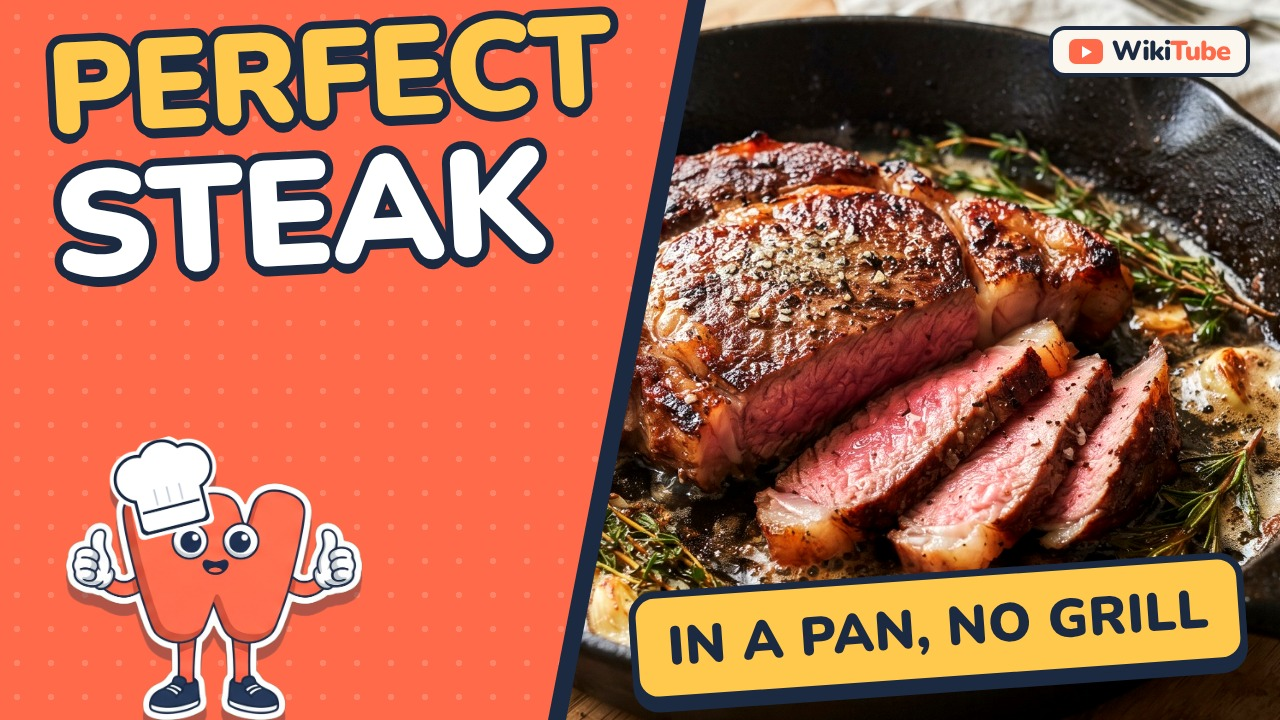
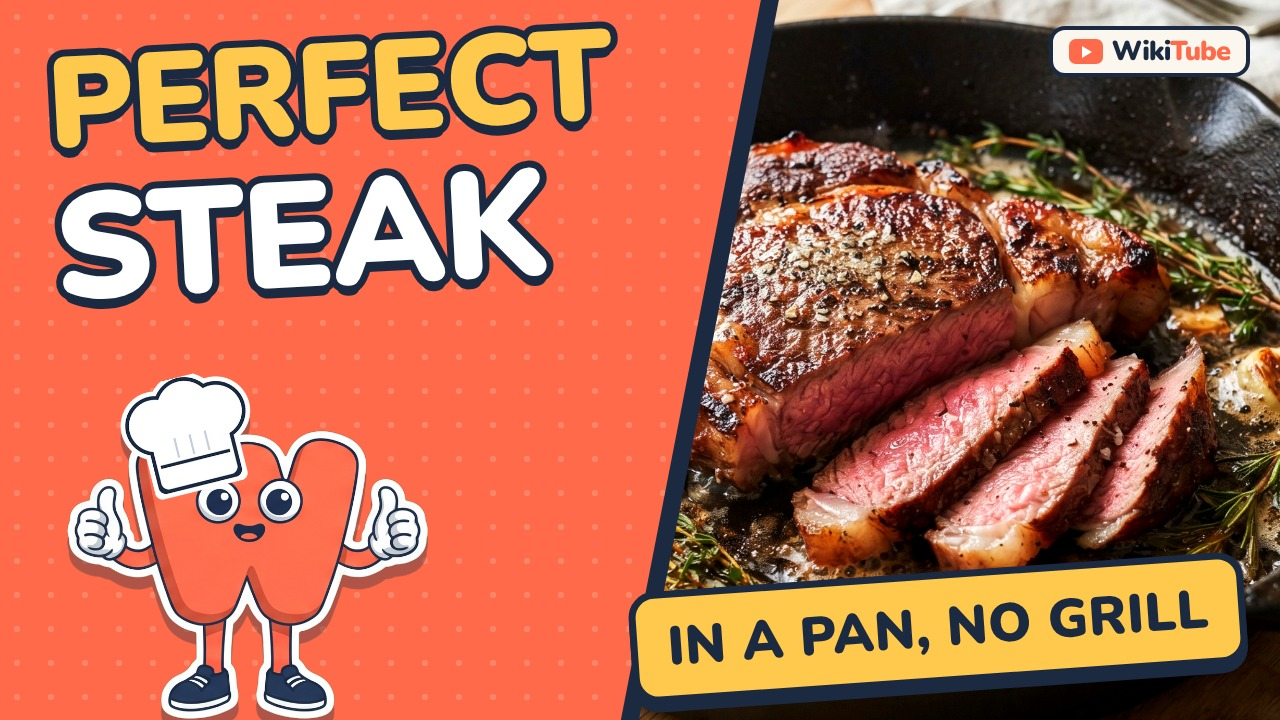
fix(mise en page): sonde automatique des textes coupés ou superposés, colonne d'introduction auto-ajustée, garde-fous des étiquettes et des légendes, miniatures à mise en page calculée ; miniatures des 3 vidéos programmées remplacées
Claude-Session: https://claude.ai/code/session_011qSUCMSTaizdJrV53fKGTy

diff --git a/src/ThumbPro.tsx b/src/ThumbPro.tsx
@@ -2,6 +2,7 @@ import React from "react";
 import { AbsoluteFill, Img, staticFile } from "remotion";
 import { C, FONT } from "./theme";
 import { Logo } from "./components/ui";
+import { OverflowProbe } from "./components/probe";
 
 export type ThumbProProps = {
   photo: string;
@@ -12,39 +13,69 @@ export type ThumbProProps = {
   badge: string;
   mascot: string; // pose : panic, chef, nose…
   mascotH?: number;
+  probe?: boolean;
 };
 
 const stroke = (w: number): React.CSSProperties => ({ WebkitTextStroke: `${w}px ${C.ink}`, paintOrder: "stroke fill" });
 
 /** Miniature « clic » 1280×720 : photo vive à droite, panneau corail en biais, 2-3 mots géants, mascotte, pastille promesse. */
-export const ThumbPro: React.FC<ThumbProProps> = ({ photo, flip, position = "50% 50%", zoom = 1.06, lines, badge, mascot, mascotH = 330 }) => (
+export const ThumbPro: React.FC<ThumbProProps> = ({ photo, flip, position = "50% 50%", zoom = 1.06, lines, badge, mascot, mascotH, probe }) => {
+  // Mise en page calculée : chaque ligne tient dans le panneau en biais, la mascotte remplit l'espace restant,
+  // la pastille ne passe jamais sous la mascotte. Aucun texte ne déborde, aucune zone ne reste vide.
+  const LH = 1.04; // interligne : les contours épais ne se touchent pas
+  const TOP = 40;
+  // Le panneau s'élargit si un mot long le demande (jusqu'à 820 px en haut), la photo garde au moins la moitié droite.
+  let yy = TOP;
+  let need = 688;
+  for (const l of lines) {
+    const size = l.size ?? 128;
+    yy += size * LH;
+    need = Math.max(need, 44 + 56 + l.text.length * 0.7 * size + (140 * yy) / 720);
+  }
+  const panelTop = Math.min(820, need);
+  const edgeAt = (y: number) => panelTop - (140 * y) / 720; // bord droit du panneau corail à la hauteur y
+  let y = TOP;
+  const fitted = lines.map((l) => {
+    let size = l.size ?? 128;
+    for (let i = 0; i < 6; i++) size = Math.min(size, (edgeAt(y + size * LH) - 44 - 56) / (l.text.length * 0.7));
+    y += size * LH;
+    return { ...l, size: Math.floor(size) };
+  });
+  const textBottom = y;
+  const mH = Math.round(Math.min(mascotH ?? 420, 720 - textBottom - 26, 420));
+  const mascotRight = 60 + mH * 0.86;
+  const badgeRoom = 1280 - 34 - mascotRight - 36;
+  const badgeSize = Math.floor(Math.min(54, badgeRoom / (badge.length * 0.62 + 1.4)));
+  return (
   <AbsoluteFill style={{ background: C.ink, fontFamily: FONT, overflow: "hidden" }}>
-    <div style={{ position: "absolute", left: 430, top: 0, right: 0, bottom: 0, overflow: "hidden" }}>
+    <div style={{ position: "absolute", left: panelTop - 258, top: 0, right: 0, bottom: 0, overflow: "hidden" }}>
       <Img
         src={staticFile(photo)}
         style={{ width: "100%", height: "100%", objectFit: "cover", objectPosition: position, transform: `scale(${flip ? -zoom : zoom}, ${zoom})`, filter: "saturate(1.18) contrast(1.06) brightness(1.03)" }}
       />
     </div>
     {/* panneau en biais + liseré */}
-    <div style={{ position: "absolute", inset: 0, background: C.ink, clipPath: "polygon(0 0, 706px 0, 566px 100%, 0 100%)" }} />
-    <div style={{ position: "absolute", inset: 0, background: C.coral, clipPath: "polygon(0 0, 688px 0, 548px 100%, 0 100%)" }} />
-    <div style={{ position: "absolute", inset: 0, clipPath: "polygon(0 0, 688px 0, 548px 100%, 0 100%)", backgroundImage: "radial-gradient(rgba(255,255,255,0.16) 3px, transparent 3.5px)", backgroundSize: "34px 34px" }} />
+    <div style={{ position: "absolute", inset: 0, background: C.ink, clipPath: `polygon(0 0, ${panelTop + 18}px 0, ${panelTop - 122}px 100%, 0 100%)` }} />
+    <div style={{ position: "absolute", inset: 0, background: C.coral, clipPath: `polygon(0 0, ${panelTop}px 0, ${panelTop - 140}px 100%, 0 100%)` }} />
+    <div style={{ position: "absolute", inset: 0, clipPath: `polygon(0 0, ${panelTop}px 0, ${panelTop - 140}px 100%, 0 100%)`, backgroundImage: "radial-gradient(rgba(255,255,255,0.16) 3px, transparent 3.5px)", backgroundSize: "34px 34px" }} />
     {/* mots géants */}
-    <div style={{ position: "absolute", left: 44, top: 30, transform: "rotate(-3deg)", transformOrigin: "left top" }}>
-      {lines.map((l, i) => (
-        <div key={i} style={{ fontSize: l.size ?? 128, fontWeight: 900, lineHeight: 0.98, letterSpacing: -2, color: l.hi ? C.sun : C.white, ...stroke(16), textShadow: `0 10px 0 ${C.ink}`, whiteSpace: "nowrap" }}>
+    <div style={{ position: "absolute", left: 44, top: TOP, transform: "rotate(-3deg)", transformOrigin: "left top" }}>
+      {fitted.map((l, i) => (
+        <div key={i} style={{ fontSize: l.size, fontWeight: 900, lineHeight: LH, letterSpacing: -2, color: l.hi ? C.sun : C.white, ...stroke(14), textShadow: `0 10px 0 ${C.ink}`, whiteSpace: "nowrap" }}>
           {l.text}
         </div>
       ))}
     </div>
     {/* mascotte */}
-    <Img src={staticFile(`brand/mascot-${mascot}.png`)} style={{ position: "absolute", left: 60, bottom: -6, height: mascotH, filter: "drop-shadow(0 12px 0 rgba(27,42,65,0.35))" }} />
+    <Img src={staticFile(`brand/mascot-${mascot}.png`)} style={{ position: "absolute", left: 60, bottom: -6, height: mH, filter: "drop-shadow(0 12px 0 rgba(27,42,65,0.35))" }} />
     {/* pastille promesse */}
-    <div style={{ position: "absolute", right: 34, bottom: 36, transform: "rotate(-4deg)", background: C.sun, color: C.ink, border: `7px solid ${C.ink}`, borderRadius: 26, padding: "12px 30px", fontSize: 54, fontWeight: 900, letterSpacing: 0.5, boxShadow: `0 9px 0 ${C.ink}`, whiteSpace: "nowrap" }}>
+    <div style={{ position: "absolute", right: 34, bottom: 36, transform: "rotate(-4deg)", background: C.sun, color: C.ink, border: `7px solid ${C.ink}`, borderRadius: 26, padding: "12px 30px", fontSize: badgeSize, fontWeight: 900, letterSpacing: 0.5, boxShadow: `0 9px 0 ${C.ink}`, whiteSpace: "nowrap" }}>
       {badge}
     </div>
     <div style={{ position: "absolute", top: 26, right: 30, background: C.paper, padding: "8px 16px", borderRadius: 16, border: `4px solid ${C.ink}` }}>
       <Logo size={34} />
     </div>
+    {probe && <OverflowProbe />}
   </AbsoluteFill>
 );
+};

diff --git a/src/components/stage.tsx b/src/components/stage.tsx
@@ -6,6 +6,13 @@ import { HAND, Mascot, WMark, type Pose } from "./brand";
 import type { Diagram, Gag } from "../types";
 
 const clamp = { extrapolateLeft: "clamp", extrapolateRight: "clamp" } as const;
+
+/** Garde-fou des légendes de schéma : réduit le corps si le texte dépasserait du cadre (viewBox large de 800). */
+const fitSize = (text: string, size: number, x: number, anchor: "start" | "middle" | "end", vw = 800) => {
+  const room = anchor === "middle" ? 2 * Math.min(x, vw - x) - 20 : anchor === "end" ? x - 10 : vw - x - 10;
+  const est = text.length * size * 0.5;
+  return est > room ? Math.max(18, Math.floor((size * room) / est)) : size;
+};
 const ease = Easing.inOut(Easing.cubic);
 
 /** Élément actif à l'instant courant parmi une liste calée sur la voix (t, dur en secondes relatives à la scène). */
@@ -93,7 +100,7 @@ export const ToiletTrap: React.FC<{ mode: TrapMode; local: number; width?: numbe
   const clogX = 432 + jitter + cleared * 150;
   const clogY = 424 - cleared * 60;
   const label = (x: number, y: number, text: string, size = 40, color: string = C.ink) => (
-    <text x={x} y={y} fontFamily={HAND} fontWeight={700} fontSize={size} fill={color}>
+    <text x={x} y={y} fontFamily={HAND} fontWeight={700} fontSize={fitSize(text, size, x, "start")} fill={color}>
       {text}
     </text>
   );
@@ -169,7 +176,7 @@ export const HouseDrain: React.FC<{ mode: string; local: number; width?: number 
     </>
   );
   const label = (x: number, y: number, text: string, size = 40, color: string = C.ink) => (
-    <text x={x} y={y} fontFamily={HAND} fontWeight={700} fontSize={size} fill={color}>
+    <text x={x} y={y} fontFamily={HAND} fontWeight={700} fontSize={fitSize(text, size, x, "start")} fill={color}>
       {text}
     </text>
   );
@@ -231,7 +238,7 @@ export const SteakPan: React.FC<{ mode: string; local: number; width?: number }>
   const pulse = 1 + Math.sin(local / 5) * 0.1;
   const grow = interpolate(local, [8, 130], [4, 24], clamp);
   const label = (x: number, y: number, text: string, size = 40, color: string = C.ink, anchor: "start" | "middle" | "end" = "start") => (
-    <text x={x} y={y} fontFamily={HAND} fontWeight={700} fontSize={size} fill={color} textAnchor={anchor}>
+    <text x={x} y={y} fontFamily={HAND} fontWeight={700} fontSize={fitSize(text, size, x, anchor)} fill={color} textAnchor={anchor}>
       {text}
     </text>
   );
@@ -272,7 +279,7 @@ export const SteakPan: React.FC<{ mode: string; local: number; width?: number }>
                   <path key={x} d={`M${x - 15} 498 Q${x - 20} ${498 - 16 * flame} ${x} ${498 - 30 * flame * (i % 2 ? flick : 2 - flick)} Q${x + 20} ${498 - 16 * flame} ${x + 15} 498 Z`} fill={C.coral} stroke={C.ink} strokeWidth={4} strokeLinejoin="round" />
                 ))}
               <path d="M168 372 L188 462 Q192 478 212 478 H588 Q608 478 612 462 L632 372" fill={C.paper} stroke={C.ink} strokeWidth={11} strokeLinejoin="round" strokeLinecap="round" />
-              <path d="M634 384 L706 372" stroke={C.ink} strokeWidth={22} strokeLinecap="round" />
+              <path d="M634 384 L688 375" stroke={C.ink} strokeWidth={22} strokeLinecap="round" />
             </>
           ) : (
             <rect x={150} y={468} width={500} height={30} rx={12} fill={BOARD} stroke={C.ink} strokeWidth={9} />
@@ -373,9 +380,9 @@ export const SteakPan: React.FC<{ mode: string; local: number; width?: number }>
       )}
       {mode === "temp" && (
         <>
-          {label(24, 60, "Rare 125°F", 36, C.coral)}
-          {label(400, 60, "Medium-rare 130–135°F", 36, C.ink, "middle")}
-          {label(776, 60, "Medium 140°F", 36, BROWN, "end")}
+          {label(24, 60, "Rare 125°F", 30, C.coral)}
+          {label(392, 60, "Medium-rare 130–135°F", 30, C.ink, "middle")}
+          {label(776, 60, "Medium 140°F", 30, BROWN, "end")}
           {label(400, 112, "Probe from the side, into the thickest part", 36, C.teal, "middle")}
           {label(400, 548, "It rises a few degrees while it rests", 42, C.coral, "middle")}
         </>
@@ -410,7 +417,7 @@ export const ToiletRing: React.FC<{ mode: string; local: number; width?: number 
   const pulse = 1 + Math.sin(local / 5) * 0.1;
   const rub = Math.sin(local / 3) * 9;
   const label = (x: number, y: number, text: string, size = 40, color: string = C.ink, anchor: "start" | "middle" | "end" = "start") => (
-    <text x={x} y={y} fontFamily={HAND} fontWeight={700} fontSize={size} fill={color} textAnchor={anchor}>
+    <text x={x} y={y} fontFamily={HAND} fontWeight={700} fontSize={fitSize(text, size, x, anchor)} fill={color} textAnchor={anchor}>
       {text}
     </text>
   );
@@ -525,7 +532,7 @@ export const RicePot: React.FC<{ mode: string; local: number; width?: number }> 
   const lidY = peek ? interpolate(local, [0, 14], [0, -70], { ...clamp, easing: Easing.out(Easing.cubic) }) : 0;
   const lidRot = peek ? interpolate(local, [0, 14], [0, -16], clamp) : 0;
   const label = (x: number, y: number, text: string, size = 40, color: string = C.ink, anchor: "start" | "middle" | "end" = "start") => (
-    <text x={x} y={y} fontFamily={HAND} fontWeight={700} fontSize={size} fill={color} textAnchor={anchor}>
+    <text x={x} y={y} fontFamily={HAND} fontWeight={700} fontSize={fitSize(text, size, x, anchor)} fill={color} textAnchor={anchor}>
       {text}
     </text>
   );
@@ -602,7 +609,7 @@ export const Washer: React.FC<{ mode: string; local: number; width?: number }> =
   const ajar = mode === "dry" ? interpolate(local, [4, 24], [0, 1], { ...clamp, easing: Easing.out(Easing.cubic) }) : 0;
   const capOut = mode === "filter" ? interpolate(local, [6, 30], [0, 1], clamp) : 0;
   const label = (x: number, y: number, text: string, size = 40, color: string = C.ink, anchor: "start" | "middle" | "end" = "start") => (
-    <text x={x} y={y} fontFamily={HAND} fontWeight={700} fontSize={size} fill={color} textAnchor={anchor}>
+    <text x={x} y={y} fontFamily={HAND} fontWeight={700} fontSize={fitSize(text, size, x, anchor)} fill={color} textAnchor={anchor}>
       {text}
     </text>
   );

diff --git a/src/scenes/long.tsx b/src/scenes/long.tsx
@@ -111,6 +111,9 @@ const HookDiagram: React.FC<{ scene: HookScene }> = ({ scene }) => {
   let modeFrom = 0;
   for (const c of chips) if (c.mode && frame >= Math.round((c.t ?? 0) * fps)) { mode = c.mode; modeFrom = Math.round((c.t ?? 0) * fps); }
   const gag = useCue(scene.gags, 3.2);
+  const shown = chips.filter((c) => !c.hidden);
+  const chipsHeight = shown.reduce((h, c) => h + 162 + ((c.label ?? "").length > 17 ? 60 : 0), 0) + Math.max(0, shown.length - 1) * 26;
+  const chipScale = Math.min(1.1, 860 / Math.max(1, chipsHeight));
   return (
     <Frame bg={C.paper} dots={false}>
       <AbsoluteFill style={{ backgroundImage: `linear-gradient(rgba(27,42,65,0.06) 2px, transparent 2px), linear-gradient(90deg, rgba(27,42,65,0.06) 2px, transparent 2px)`, backgroundSize: "48px 48px" }} />
@@ -122,21 +125,24 @@ const HookDiagram: React.FC<{ scene: HookScene }> = ({ scene }) => {
       <Pop delay={6} style={{ position: "absolute", left: 70, top: 330 }}>
         <DiagramView name={scene.diagram ?? ""} mode={mode} local={frame - modeFrom} width={1010} />
       </Pop>
-      <div style={{ position: "absolute", left: 1130, top: chips.filter((c) => !c.hidden).length > 3 ? 250 : 300, right: 70, display: "flex", flexDirection: "column", gap: chips.filter((c) => !c.hidden).length > 3 ? 24 : 30 }}>
-        {chips.map((c, i) => {
-          const f = frame - Math.round((c.t ?? 0) * fps);
-          if (f < 0 || c.hidden) return null;
-          const sp = spring({ frame: f, fps, config: { damping: 12, stiffness: 170 } });
-          return (
-            <div key={i} style={{ display: "flex", alignItems: "center", gap: 24, background: C.white, border: `6px solid ${C.ink}`, borderRadius: 26, padding: "16px 28px", boxShadow: `9px 9px 0 ${[C.coral, C.teal, C.sun][i % 3]}`, transform: `translateX(${(1 - sp) * 220}px) rotate(${i % 2 ? 1 : -1}deg)`, opacity: Math.min(1, sp * 1.5) }}>
-              <div style={{ width: 78, height: 78, borderRadius: 22, background: [C.coral, C.teal, C.sun][i % 3], color: i % 3 === 2 ? C.ink : C.white, fontSize: 48, fontWeight: 900, display: "flex", alignItems: "center", justifyContent: "center", flexShrink: 0 }}>{i + 1}</div>
-              <div>
-                <div style={{ fontSize: 58, fontWeight: 900, lineHeight: 1.02, color: C.ink }}>{c.label}</div>
-                {c.sub && <div style={{ fontFamily: HAND, fontWeight: 700, fontSize: 52, lineHeight: 1, color: C.coral }}>{c.sub}</div>}
+      {/* Colonne des causes : toujours entière dans l'image, quelle que soit leur nombre (échelle calculée). */}
+      <div style={{ position: "absolute", left: 1110, right: 60, top: 150, height: 890, display: "flex", flexDirection: "column", justifyContent: "center" }}>
+        <div style={{ display: "flex", flexDirection: "column", gap: 26, transform: `scale(${chipScale})`, transformOrigin: "right center" }}>
+          {chips.map((c, i) => {
+            const f = frame - Math.round((c.t ?? 0) * fps);
+            if (f < 0 || c.hidden) return null;
+            const sp = spring({ frame: f, fps, config: { damping: 12, stiffness: 170 } });
+            return (
+              <div key={i} style={{ display: "flex", alignItems: "center", gap: 24, background: C.white, border: `6px solid ${C.ink}`, borderRadius: 26, padding: "16px 28px", boxShadow: `9px 9px 0 ${[C.coral, C.teal, C.sun][i % 3]}`, transform: `translateX(${(1 - sp) * 220}px) rotate(${i % 2 ? 1 : -1}deg)`, opacity: Math.min(1, sp * 1.5) }}>
+                <div style={{ width: 78, height: 78, borderRadius: 22, background: [C.coral, C.teal, C.sun][i % 3], color: i % 3 === 2 ? C.ink : C.white, fontSize: 48, fontWeight: 900, display: "flex", alignItems: "center", justifyContent: "center", flexShrink: 0 }}>{i + 1}</div>
+                <div>
+                  <div style={{ fontSize: 58, fontWeight: 900, lineHeight: 1.02, color: C.ink }}>{c.label}</div>
+                  {c.sub && <div style={{ fontFamily: HAND, fontWeight: 700, fontSize: 52, lineHeight: 1, color: C.coral }}>{c.sub}</div>}
+                </div>
               </div>
-            </div>
-          );
-        })}
+            );
+          })}
+        </div>
       </div>
       {gag && (
         <div style={{ position: "absolute", right: 70, bottom: 30 }}>

diff --git a/src/components/probe.tsx b/src/components/probe.tsx
@@ -1,0 +1,86 @@
+import React, { useEffect, useRef } from "react";
+import { continueRender, delayRender, useCurrentFrame } from "remotion";
+
+/**
+ * Sonde de mise en page (contrôle uniquement, jamais dans un rendu final) :
+ * encadre en magenta tout texte qui sort de l'image ou de son conteneur (coupé),
+ * et en cyan deux textes qui se superposent. Les cadres sont ensuite comptés par script.
+ */
+export const OverflowProbe: React.FC = () => {
+  const frame = useCurrentFrame();
+  const ref = useRef<HTMLDivElement>(null);
+  useEffect(() => {
+    const h = delayRender(`probe-${frame}`);
+    const run = () => {
+      const layer = ref.current;
+      const root = layer?.parentElement;
+      if (!layer || !root) return continueRender(h);
+      layer.innerHTML = "";
+      const R = root.getBoundingClientRect();
+      const k = R.width / (root as HTMLElement).offsetWidth || 1;
+      type Item = { r: DOMRect; el: Element; text: string };
+      const items: Item[] = [];
+      const visible = (el: Element) => {
+        let o = 1;
+        for (let a: Element | null = el; a && a !== root; a = a.parentElement) {
+          const cs = getComputedStyle(a);
+          if (cs.display === "none" || cs.visibility === "hidden") return false;
+          o *= Number(cs.opacity);
+        }
+        return o > 0.25;
+      };
+      const walker = document.createTreeWalker(root, NodeFilter.SHOW_TEXT);
+      for (let n = walker.nextNode(); n; n = walker.nextNode()) {
+        const el = n.parentElement;
+        const text = (n.textContent ?? "").trim();
+        if (!el || !text || layer.contains(el) || el.closest("svg")) continue;
+        if (!visible(el)) continue;
+        const range = document.createRange();
+        range.selectNodeContents(n);
+        for (const r of Array.from(range.getClientRects())) if (r.width > 3 && r.height > 3) items.push({ r, el, text });
+      }
+      root.querySelectorAll("svg text").forEach((el) => {
+        const text = (el.textContent ?? "").trim();
+        const r = el.getBoundingClientRect();
+        if (text && r.width > 3 && r.height > 3 && visible(el)) items.push({ r, el, text });
+      });
+      const box = (r: DOMRect, color: string) => {
+        const d = document.createElement("div");
+        d.style.cssText = `position:absolute;left:${(r.left - R.left) / k - 6}px;top:${(r.top - R.top) / k - 6}px;width:${r.width / k + 12}px;height:${r.height / k + 12}px;border:9px solid ${color};box-sizing:border-box;z-index:99999;pointer-events:none`;
+        layer.appendChild(d);
+      };
+      const T = 3 * k;
+      for (const it of items) {
+        const { r } = it;
+        let bad = r.left < R.left - T || r.right > R.right + T || r.top < R.top - T || r.bottom > R.bottom + T;
+        for (let a = it.el.parentElement; a && a !== root && !bad; a = a.parentElement) {
+          const cs = getComputedStyle(a);
+          const clips = a.tagName.toLowerCase() === "svg" || cs.overflowX !== "visible" || cs.overflowY !== "visible";
+          if (!clips) continue;
+          const ar = a.getBoundingClientRect();
+          bad = r.left < ar.left - T || r.right > ar.right + T || r.top < ar.top - T || r.bottom > ar.bottom + T;
+        }
+        if (bad) box(r, "#FF00FF");
+      }
+      for (let i = 0; i < items.length; i++)
+        for (let j = i + 1; j < items.length; j++) {
+          const a = items[i], b = items[j];
+          if (a.el === b.el || a.el.contains(b.el) || b.el.contains(a.el)) continue;
+          const sh = (r: DOMRect) => ({ l: r.left + 3 * k, rr: r.right - 3 * k, t: r.top + r.height * 0.22, b: r.bottom - r.height * 0.22 });
+          const x = sh(a.r), y = sh(b.r);
+          const w = Math.min(x.rr, y.rr) - Math.max(x.l, y.l), hh = Math.min(x.b, y.b) - Math.max(x.t, y.t);
+          if (w > 4 * k && hh > 4 * k) {
+            box(a.r, "#00FFFF");
+            box(b.r, "#00FFFF");
+          }
+        }
+      continueRender(h);
+    };
+    const id = requestAnimationFrame(() => requestAnimationFrame(run));
+    return () => {
+      cancelAnimationFrame(id);
+      continueRender(h);
+    };
+  }, [frame]);
+  return <div ref={ref} style={{ position: "absolute", inset: 0, pointerEvents: "none", zIndex: 99999 }} />;
+};

diff --git a/src/components/brand.tsx b/src/components/brand.tsx
@@ -84,8 +84,11 @@ const NoteView: React.FC<{ note: Note; box: [number, number]; focus: [number, nu
   // La cible suit la caméra ; les étiquettes restent à leur place dans le cadre.
   const bx = cam.ox + cam.s * (bx0 + cam.tx - cam.ox);
   const by = cam.oy + cam.s * (by0 + cam.ty - cam.oy);
-  const P = { x: bx * w, y: by * h };
-  const L = note.label ? { x: note.label[0] * w, y: note.label[1] * h } : null;
+  // Garde-fous : la cible et l'étiquette restent toujours entières dans le cadre.
+  const within = (v: number, lo: number, hi: number) => Math.min(Math.max(v, lo), Math.max(lo, hi));
+  const P = { x: within(bx * w, 0.03 * w, 0.97 * w), y: within(by * h, 0.06 * h, 0.9 * h) };
+  const halfW = ((note.text ?? "").length * fs * 0.2 + 26) * 1.08;
+  const L = note.label ? { x: within(note.label[0] * w, halfW + 0.015 * w, w - halfW - 0.015 * w), y: within(note.label[1] * h, 0.13 * h, 0.86 * h) } : null;
   const draw = interpolate(local, [0, 9], [0, 1], { ...clamp, easing: Easing.out(Easing.cubic) });
   const draw2 = interpolate(local, [6, 14], [0, 1], { ...clamp, easing: Easing.out(Easing.cubic) });
   const pop = spring({ frame: local - (note.type === "arrow" ? 0 : 5), fps, config: { damping: 11, stiffness: 200 } });
@@ -120,7 +123,7 @@ const NoteView: React.FC<{ note: Note; box: [number, number]; focus: [number, nu
 
   if (note.type === "loupe" || note.type === "inset") {
     // Loupe : la zone visée est agrandie dans une lentille, reliée à sa cible ; le reste de l'image s'assombrit.
-    const Lc = { x: (note.lens?.[0] ?? 0.28) * w, y: (note.lens?.[1] ?? 0.42) * h };
+    const Lc = { x: within((note.lens?.[0] ?? 0.28) * w, r + 0.02 * w, w - r - 0.02 * w), y: within((note.lens?.[1] ?? 0.42) * h, r + 0.1 * h, h - r - fs * 1.7 - 0.03 * h) };
     const z = note.zoom ?? 2.3;
     const ac = w / h;
     const dispW = ac >= IMG_ASPECT ? w : h * IMG_ASPECT;

diff --git a/src/Long.tsx b/src/Long.tsx
@@ -1,4 +1,5 @@
 import React from "react";
+import { OverflowProbe } from "./components/probe";
 import { AbsoluteFill, Audio, Sequence, interpolate, staticFile, useVideoConfig } from "remotion";
 import { C } from "./theme";
 import type { LongProps, Scene } from "./types";
@@ -64,6 +65,7 @@ export const Long: React.FC<LongProps> = ({ timeline, options }) => {
           </Sequence>
         );
       })}
+      {options?.probe && <OverflowProbe />}
     </AbsoluteFill>
   );
 };

diff --git a/src/types.ts b/src/types.ts
@@ -120,6 +120,7 @@ export type Timeline = {
 export type RenderOptions = {
   burnSubtitles?: boolean; // sous-titres incrustés (par défaut true)
   audio?: boolean; // désactiver l'audio (aperçu Studio)
+  probe?: boolean; // sonde de mise en page (contrôle, jamais en rendu final)
 };
 
 export type LongProps = { timeline: Timeline; options?: RenderOptions };
